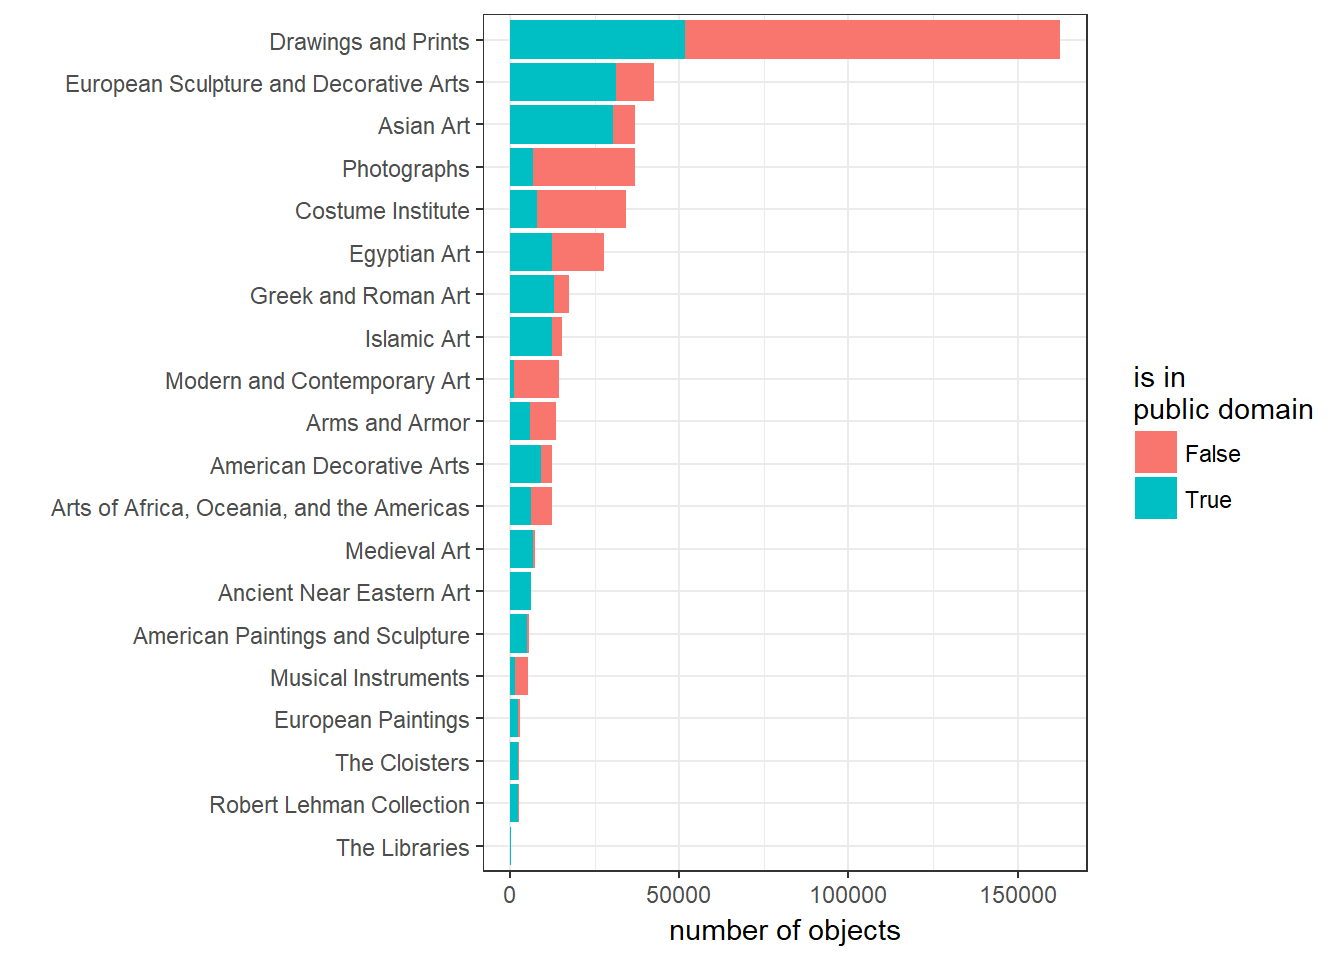
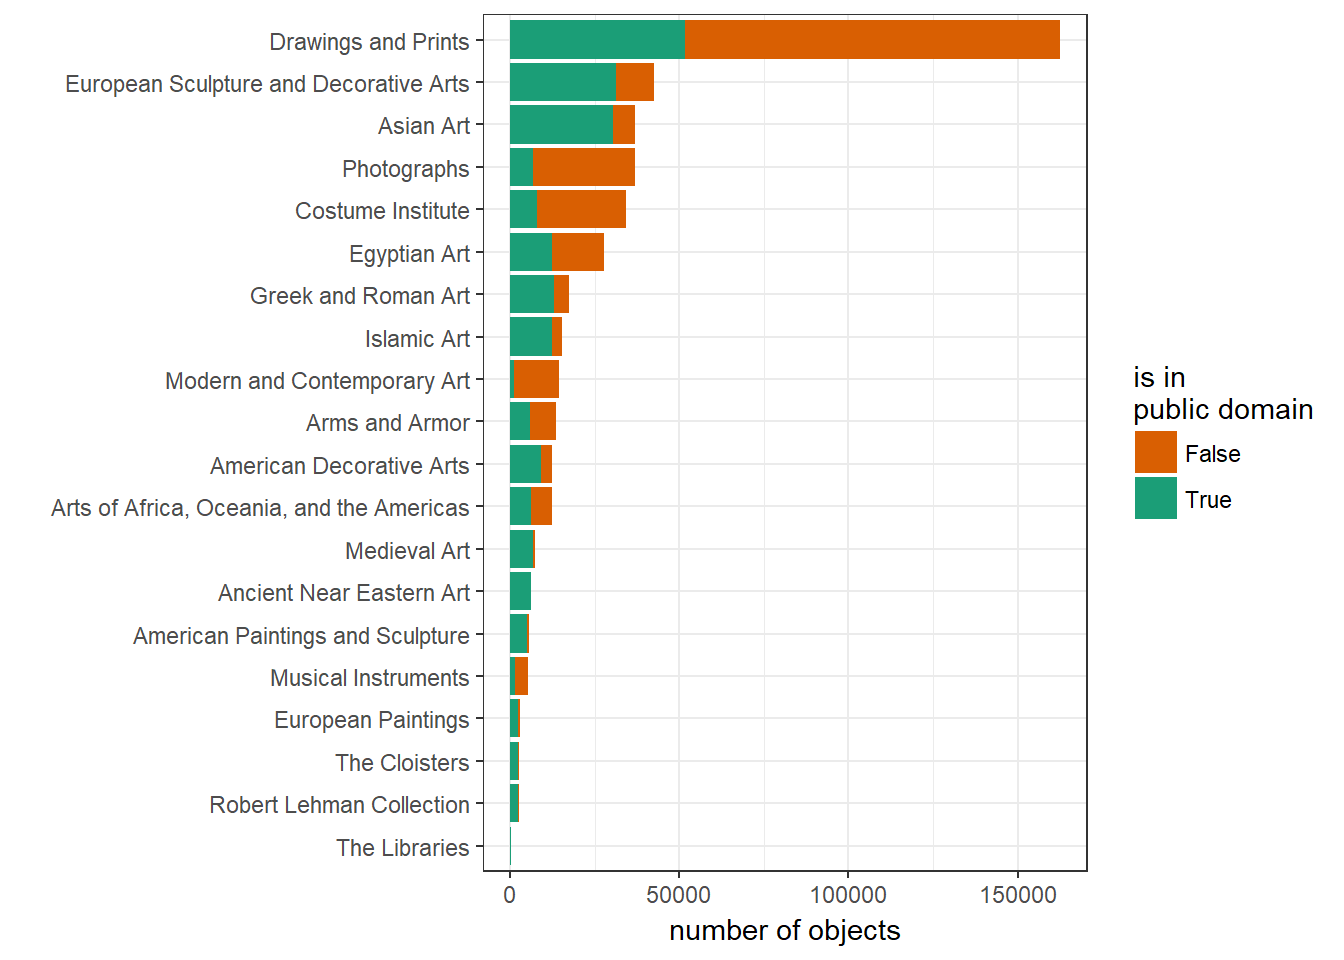
Add files via upload

Changed region(s): [[0.375, 0.0, 0.8125, 0.8438], [0.8438, 0.4375, 0.875, 0.5625]]

diff --git a/public/posts/wtfdata/index.html b/public/posts/wtfdata/index.html
@@ -101,7 +101,7 @@
         </li>
         
 
-        <li>6 min read</li>
+        <li>5 min read</li>
     </ul>
 </aside>
     
@@ -145,53 +145,20 @@ names(MetObjects)</code></pre>
 head(names(MetObjects)&lt;-make.names(tolower(names(MetObjects))),6)</code></pre>
 <pre><code>## [1] &quot;object.number&quot;    &quot;is.highlight&quot;     &quot;is.public.domain&quot;
 ## [4] &quot;object.id&quot;        &quot;department&quot;       &quot;object.name&quot;</code></pre>
-<p>Now we can take a peek at what the data includes using dplyr’s glimpse()</p>
-<pre class="r"><code>glimpse(MetObjects,width = 75)</code></pre>
+<p>Now we can take a peek at what the data includes using dplyr’s glimpse(), just looking at the first 10 columns to save space</p>
+<pre class="r"><code>glimpse(MetObjects[,1:10],width = 50)</code></pre>
 <pre><code>## Observations: 458,614
-## Variables: 43
-## $ object.number           &lt;chr&gt; &quot;1979.486.1&quot;, &quot;1980.264.5&quot;, &quot;67.265.9&quot;...
-## $ is.highlight            &lt;chr&gt; &quot;False&quot;, &quot;False&quot;, &quot;False&quot;, &quot;False&quot;, &quot;F...
-## $ is.public.domain        &lt;chr&gt; &quot;False&quot;, &quot;False&quot;, &quot;False&quot;, &quot;False&quot;, &quot;F...
-## $ object.id               &lt;int&gt; 1, 2, 3, 4, 5, 6, 7, 8, 9, 10, 11, 12,...
-## $ department              &lt;chr&gt; &quot;American Decorative Arts&quot;, &quot;American ...
-## $ object.name             &lt;chr&gt; &quot;Coin&quot;, &quot;Coin&quot;, &quot;Coin&quot;, &quot;Coin&quot;, &quot;Coin&quot;...
-## $ title                   &lt;chr&gt; &quot;One-dollar Liberty Head Coin&quot;, &quot;Ten-d...
-## $ culture                 &lt;chr&gt; NA, NA, NA, NA, NA, NA, NA, NA, NA, NA...
-## $ period                  &lt;chr&gt; NA, NA, NA, NA, NA, NA, NA, NA, NA, NA...
-## $ dynasty                 &lt;chr&gt; NA, NA, NA, NA, NA, NA, NA, NA, NA, NA...
-## $ reign                   &lt;chr&gt; NA, NA, NA, NA, NA, NA, NA, NA, NA, NA...
-## $ portfolio               &lt;chr&gt; NA, NA, NA, NA, NA, NA, NA, NA, NA, NA...
-## $ artist.role             &lt;chr&gt; &quot;Maker&quot;, &quot;Maker&quot;, NA, NA, NA, NA, NA, ...
-## $ artist.prefix           &lt;chr&gt; NA, NA, NA, NA, NA, NA, NA, NA, NA, NA...
-## $ artist.display.name     &lt;chr&gt; &quot;James Barton Longacre&quot;, &quot;Christian Go...
-## $ artist.display.bio      &lt;chr&gt; &quot;American, Delaware County, Pennsylvan...
-## $ artist.suffix           &lt;chr&gt; NA, NA, NA, NA, NA, NA, NA, NA, NA, NA...
-## $ artist.alpha.sort       &lt;chr&gt; &quot;Longacre, James Barton&quot;, &quot;Gobrecht, C...
-## $ artist.nationality      &lt;chr&gt; &quot;American&quot;, NA, NA, NA, NA, NA, NA, NA...
-## $ artist.begin.date       &lt;chr&gt; &quot;1794&quot;, &quot;1785&quot;, NA, NA, NA, NA, NA, NA...
-## $ artist.end.date         &lt;chr&gt; &quot;1869&quot;, &quot;1844&quot;, NA, NA, NA, NA, NA, NA...
-## $ object.date             &lt;chr&gt; &quot;1853&quot;, &quot;1901&quot;, &quot;190927&quot;, &quot;190927&quot;, ...
-## $ object.begin.date       &lt;int&gt; 1853, 1901, 1909, 1909, 1909, 1909, 19...
-## $ object.end.date         &lt;int&gt; 1853, 1901, 1927, 1927, 1927, 1927, 19...
-## $ medium                  &lt;chr&gt; &quot;Gold&quot;, &quot;Gold&quot;, &quot;Gold&quot;, &quot;Gold&quot;, &quot;Gold&quot;...
-## $ dimensions              &lt;chr&gt; &quot;Dimensions unavailable&quot;, &quot;Dimensions ...
-## $ credit.line             &lt;chr&gt; &quot;Gift of Heinz L. Stoppelmann, 1979&quot;, ...
-## $ geography.type          &lt;chr&gt; NA, NA, NA, NA, NA, NA, NA, NA, NA, NA...
-## $ city                    &lt;chr&gt; NA, NA, NA, NA, NA, NA, NA, NA, NA, NA...
-## $ state                   &lt;chr&gt; NA, NA, NA, NA, NA, NA, NA, NA, NA, NA...
-## $ county                  &lt;chr&gt; NA, NA, NA, NA, NA, NA, NA, NA, NA, NA...
-## $ country                 &lt;chr&gt; NA, NA, NA, NA, NA, NA, NA, NA, NA, NA...
-## $ region                  &lt;chr&gt; NA, NA, NA, NA, NA, NA, NA, NA, NA, NA...
-## $ subregion               &lt;chr&gt; NA, NA, NA, NA, NA, NA, NA, NA, NA, NA...
-## $ locale                  &lt;chr&gt; NA, NA, NA, NA, NA, NA, NA, NA, NA, NA...
-## $ locus                   &lt;chr&gt; NA, NA, NA, NA, NA, NA, NA, NA, NA, NA...
-## $ excavation              &lt;chr&gt; NA, NA, NA, NA, NA, NA, NA, NA, NA, NA...
-## $ river                   &lt;chr&gt; NA, NA, NA, NA, NA, NA, NA, NA, NA, NA...
-## $ classification          &lt;chr&gt; &quot;Metal&quot;, &quot;Metal&quot;, &quot;Metal&quot;, &quot;Metal&quot;, &quot;M...
-## $ rights.and.reproduction &lt;chr&gt; NA, NA, NA, NA, NA, NA, NA, NA, NA, NA...
-## $ link.resource           &lt;chr&gt; &quot;http://www.metmuseum.org/art/collecti...
-## $ metadata.date           &lt;chr&gt; &quot;12/25/2017 8:00:01 AM&quot;, &quot;12/25/2017 8...
-## $ repository              &lt;chr&gt; &quot;Metropolitan Museum of Art, New York,...</code></pre>
+## Variables: 10
+## $ object.number    &lt;chr&gt; &quot;1979.486.1&quot;, &quot;1980....
+## $ is.highlight     &lt;chr&gt; &quot;False&quot;, &quot;False&quot;, &quot;F...
+## $ is.public.domain &lt;chr&gt; &quot;False&quot;, &quot;False&quot;, &quot;F...
+## $ object.id        &lt;int&gt; 1, 2, 3, 4, 5, 6, 7,...
+## $ department       &lt;chr&gt; &quot;American Decorative...
+## $ object.name      &lt;chr&gt; &quot;Coin&quot;, &quot;Coin&quot;, &quot;Coi...
+## $ title            &lt;chr&gt; &quot;One-dollar Liberty ...
+## $ culture          &lt;chr&gt; NA, NA, NA, NA, NA, ...
+## $ period           &lt;chr&gt; NA, NA, NA, NA, NA, ...
+## $ dynasty          &lt;chr&gt; NA, NA, NA, NA, NA, ...</code></pre>
 <p>There are quite a few NAs in several of the columns, so the next step would be to check the sparsity of each column and decide whether we can drop it. We can do this by adding up the null entries with sum(is.na()) and dividing it by the number of records.</p>
 <p>I’m going to select those variables that are complete and hold them in a separate table as I explore the data further and break it into more manageable chunks.</p>
 <pre class="r"><code>#create a function to find out what variables are completely filled in, suggesting these were required fields during data entry
@@ -208,13 +175,16 @@ names(mo_complete)</code></pre>
 ## [10] &quot;repository&quot;</code></pre>
 <p>And now a plot…Which departments are the largest? While we’re at it, let’s see how the public domain vs. non-public domain breaks down.</p>
 <pre class="r"><code>library(forcats)
-mo_complete %&gt;%
+pal&lt;-brewer.pal(2, &quot;RdBu&quot;)</code></pre>
+<pre><code>## Warning in brewer.pal(2, &quot;RdBu&quot;): minimal value for n is 3, returning requested palette with 3 different levels</code></pre>
+<pre class="r"><code>mo_complete %&gt;%
   group_by(department, is.public.domain) %&gt;% 
   count() %&gt;% 
   ggplot(aes(x=fct_reorder(department,n, decreasing=TRUE), y=n))+
   geom_col(aes(fill=is.public.domain))+
   labs(x=&quot;&quot;, y=&quot;number of objects&quot;, fill=&quot;is in\npublic domain&quot;)+
   theme_bw()+
+  scale_fill_brewer(type = &quot;qual&quot;,palette = 2,direction = -1)+
   coord_flip()</code></pre>
 <p><img src="/posts/2017-12-22-wtfdata_files/figure-html/unnamed-chunk-5-1.png" width="672" /></p>
 <p>Drawings and Prints is by far the largest department, containing a full 35% of the records in the MetObjects table.</p>
@@ -253,12 +223,12 @@ tidy_medium&lt;-d_and_p %&gt;%
   ungroup() %&gt;% 
   # group_by(department) %&gt;% 
   unnest_tokens(word, medium) %&gt;% 
-  mutate(word = wordStem(word)) %&gt;% 
+  # mutate(word = wordStem(word)) %&gt;% 
   group_by(word) %&gt;% 
   summarise(freq=n()) %&gt;%
   ungroup() %&gt;% 
   anti_join(stop_words) %&gt;% 
-  filter(!word %in% c(&quot;color&quot;, &quot;black&quot;, &quot;brown&quot;, &quot;white&quot;, &quot;green&quot;, &quot;dark&quot;, &quot;light&quot;, &quot;commerci&quot;)) %&gt;% 
+  filter(!word %in% c(&quot;color&quot;, &quot;black&quot;, &quot;brown&quot;, &quot;white&quot;, &quot;green&quot;, &quot;dark&quot;, &quot;light&quot;, &quot;commercial&quot;)) %&gt;% 
     arrange(desc(freq))
 
 
@@ -266,16 +236,16 @@ head(tidy_medium, 10)</code></pre>
 <pre><code>## # A tibble: 10 x 2
 ##          word  freq
 ##         &lt;chr&gt; &lt;int&gt;
-##  1 lithograph 39832
-##  2       etch 37214
-##  3     engrav 27434
-##  4        ink 16878
-##  5        pen 11991
-##  6 photograph 11680
-##  7    albumen 11297
-##  8      paper  8325
-##  9    graphit  7768
-## 10    woodcut  7075</code></pre>
+##  1 lithograph 38028
+##  2    etching 36782
+##  3  engraving 26419
+##  4        ink 16801
+##  5        pen 11990
+##  6    albumen 11297
+##  7 photograph 11249
+##  8      paper  8281
+##  9   graphite  7767
+## 10    woodcut  6730</code></pre>
 <p>And then a wordcloud of the most frequent words describing the objects’ media:</p>
 <pre class="r"><code>library(wordcloud)
 

diff --git a/public/index.html b/public/index.html
@@ -101,7 +101,7 @@
         </li>
         
 
-        <li>6 min read</li>
+        <li>5 min read</li>
     </ul>
 </aside>
             <p>Recently, The Metropolitan Museum of Art made its collection database publicly available. The collection spans over 5,000 years and has nearly a half-million records. Wonderful! Exciting!
